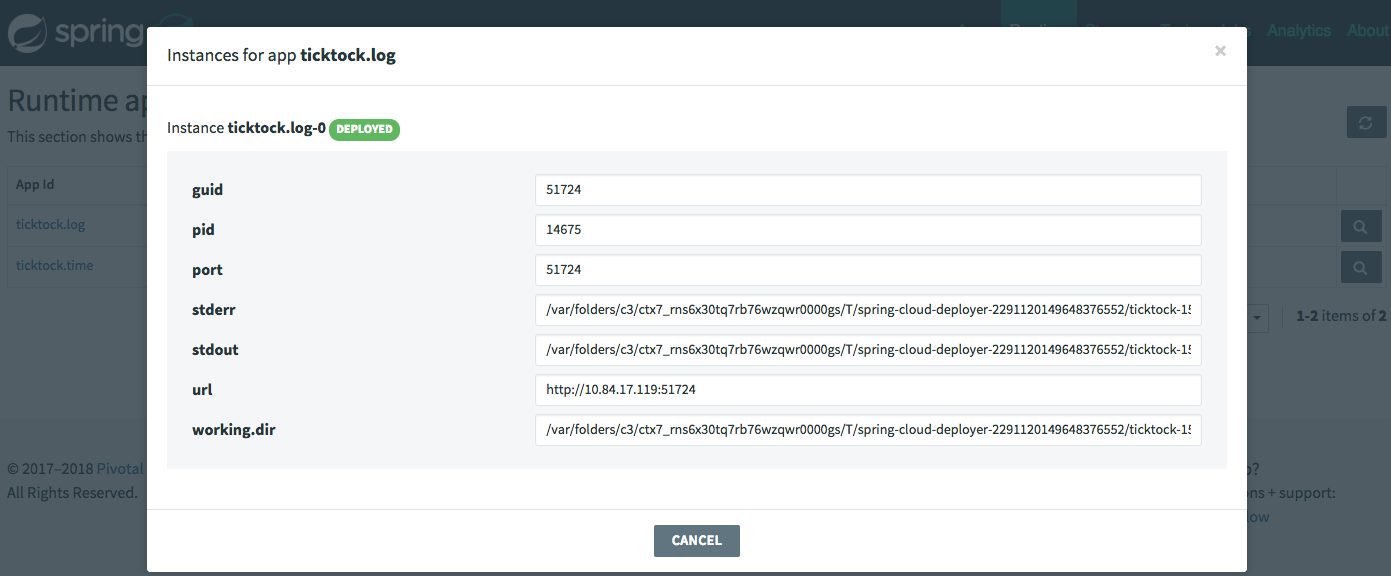
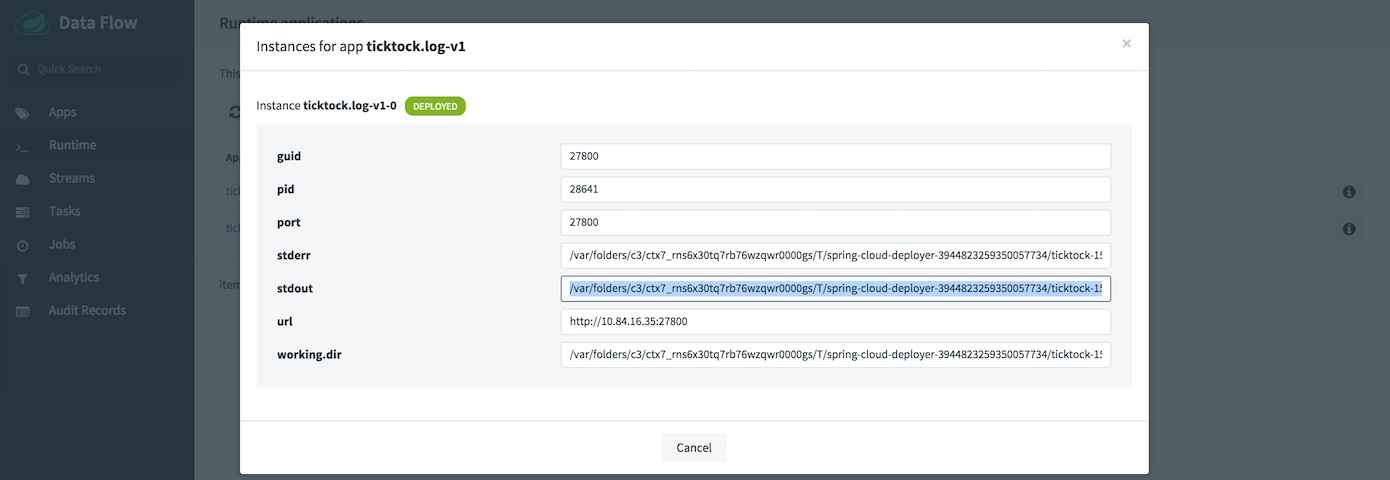
Update docker-compose to 1.7.0.RELEASE with new screenshots

diff --git a/index.html b/index.html
@@ -100,19 +100,19 @@ An easy way to get started on Spring Cloud Data Flow would be to follow the plat
 <u><b>Step 1</b></u> - There are two ways to [get started](https://docs.spring.io/spring-cloud-dataflow/docs/current/reference/htmlsingle/#getting-started). The quickest is to download the Spring Cloud Data Flow Local-Server's Docker Compose artifact. (_Mac users can use 'curl -O' instead of 'wget'_) <br>
 
 ```
-wget https://raw.githubusercontent.com/spring-cloud/spring-cloud-dataflow/v1.6.3.RELEASE/spring-cloud-dataflow-server-local/docker-compose.yml
+wget https://raw.githubusercontent.com/spring-cloud/spring-cloud-dataflow/v1.7.0.RELEASE/spring-cloud-dataflow-server-local/docker-compose.yml
 ```
 
-<u><b>Step 2</b></u> - From the directory where you downloaded `docker-compose.yml`, start the system.
+<u><b>Step 2</b></u> - From the directory where you downloaded `docker-compose.yml`, start the SCDF system.
 <br>
 
 ```
-DATAFLOW_VERSION=1.6.3.RELEASE docker-compose up
+DATAFLOW_VERSION=1.7.0.RELEASE docker-compose up
 ```
 
 <u><b>Step 3</b></u> - Open the dashboard at [http://localhost:9393/dashboard](http://localhost:9393/dashboard).
 
-<u><b>Step 4</b></u> - Use 'Create Stream' under STREAMS Tab to define and deploy a stream `time | log` called 'ticktock'.
+<u><b>Step 4</b></u> - Use 'Create Stream(s)' under "Streams" Tab to define and deploy a stream `time | log` called 'ticktock'.
 
 <img class="styled-image" src="img/create-ticktock-stream.png" alt="Create TickTock Stream" title="The Create Stream Flo Canvas"/>
 <br>
@@ -120,12 +120,12 @@ DATAFLOW_VERSION=1.6.3.RELEASE docker-compose up
 <img class="styled-image" src="img/deploy-ticktock-stream.png" alt="Deploy TickTock Stream" title="Name and deploy the stream"/>
 <br>
 
-Once the ‘ticktock’ stream is deployed, two running stream apps will appear under RUNTIME. Click on 'ticktock.log' to determine the location of the stdout log file.
+Once the ‘ticktock’ stream is deployed, you will notice two stream-apps (`ticktock.log` and `ticktock.time`) under the "Runtime" tab. Click the `i` icon across the 'ticktock.log' row to find the location of the logs.
 
 <img class="styled-image" src="img/ticktock-log-runtime.png" alt="Deploy TickTock Stream" title="Runtime app details"/>
 <br>
 
-<u><b>Step 5</b></u> - Verify that events are being written to the ticktock log every second. To view the stream logs, copy the path in the "stdout" text box on the dashboard and in another console type:
+<u><b>Step 5</b></u> - To verify the deployed stream and to view the logs, copy the path in the "stdout" text box from the dashboard and in another console type:
 
 ```
 docker exec -it dataflow-server tail -f <COPIED-STDOUT-PATH>
